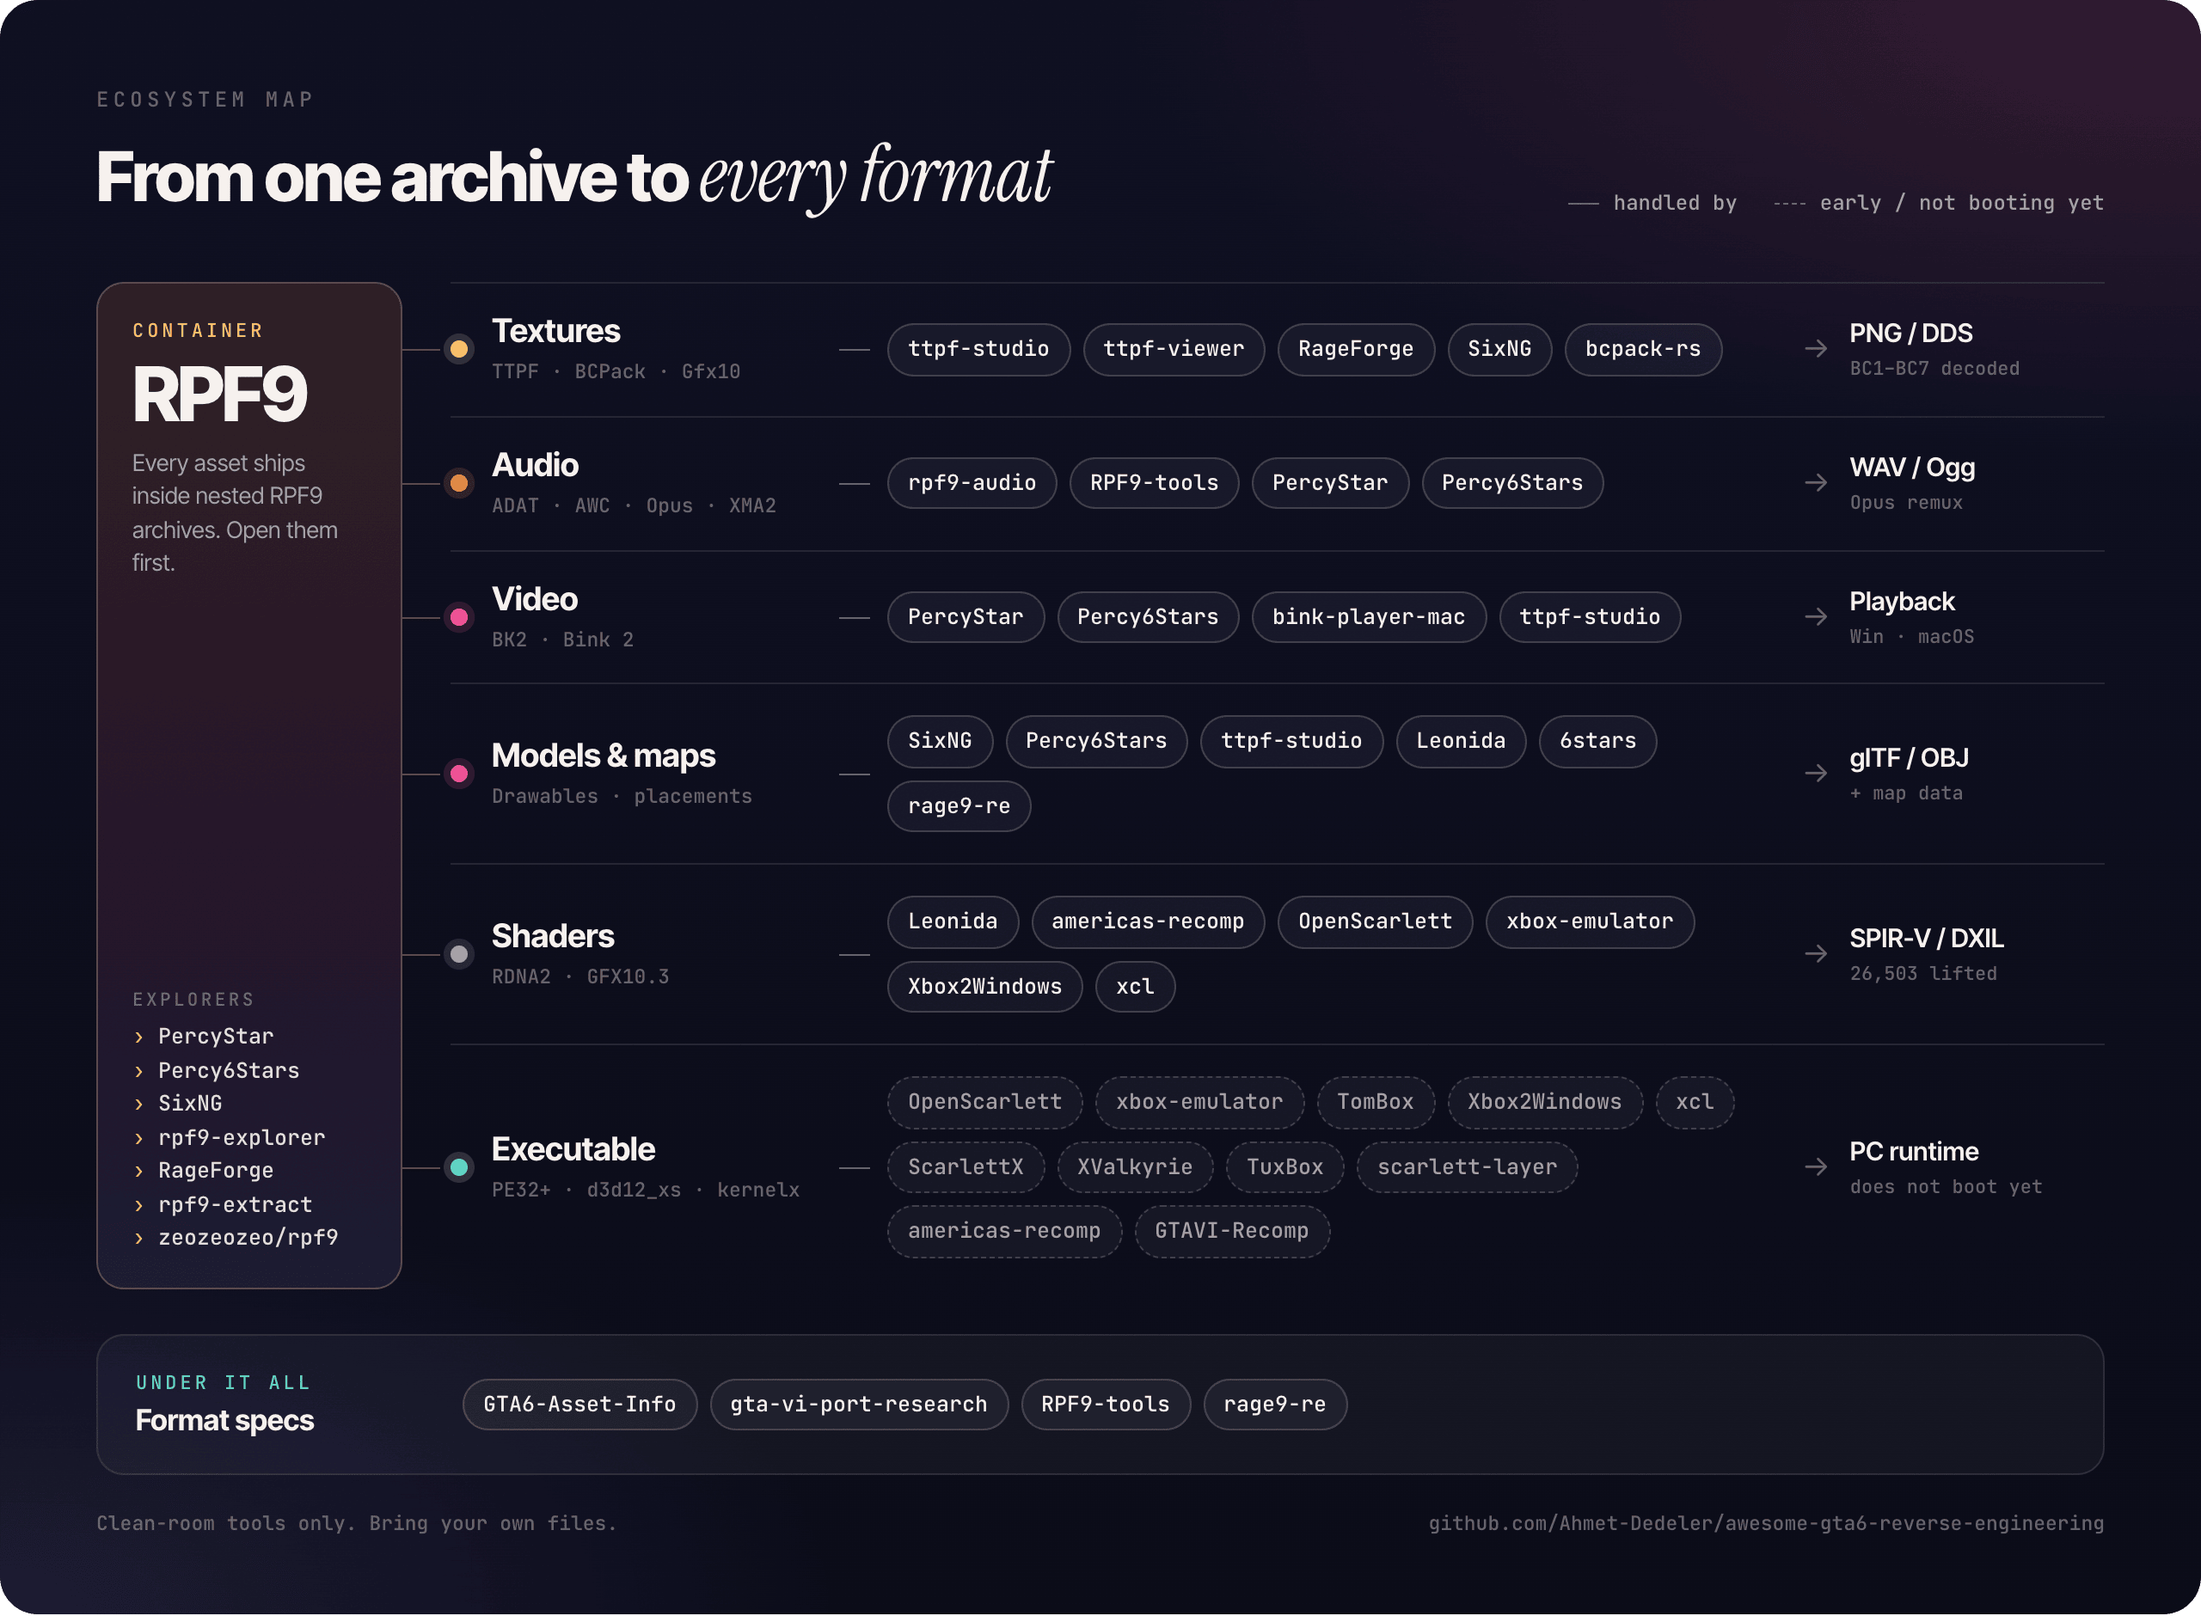
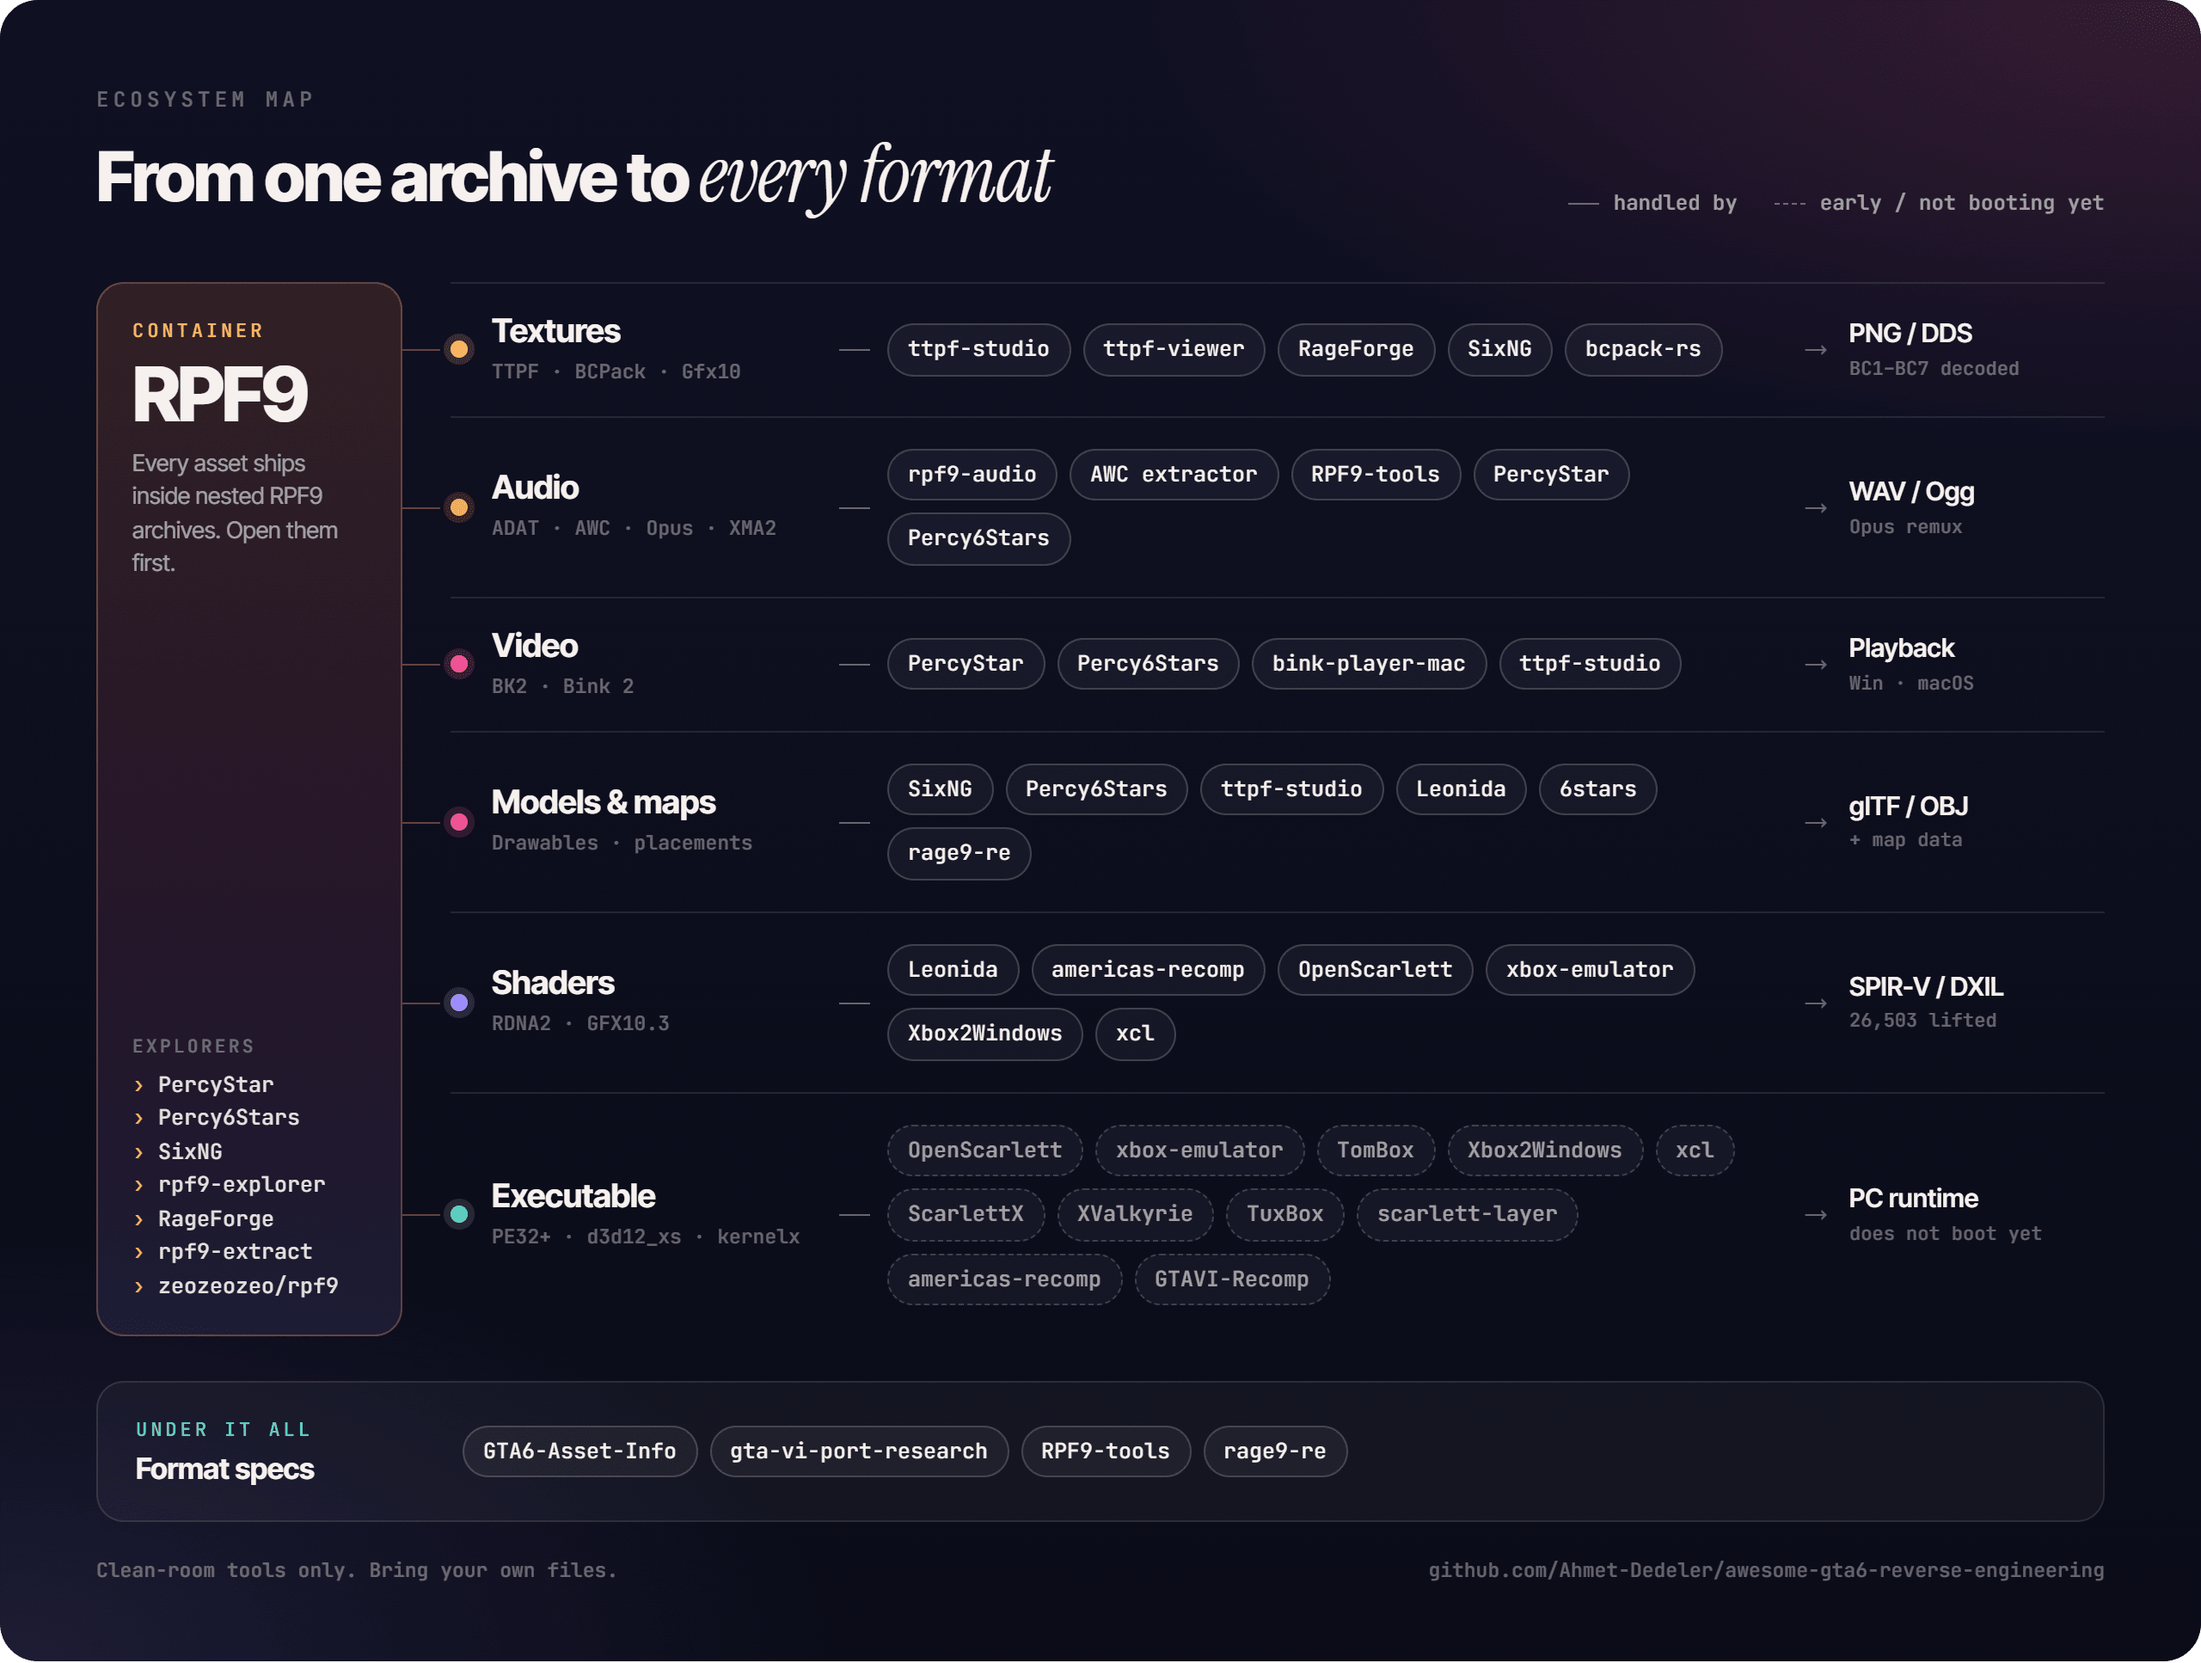
Add AWC from RPF9 Extractor to audio tools
Python/tkinter GUI + CLI that finds ADAT streams without the archive TOC,
parses the 0x48/0x55/0xA3/0xBD chunk tables and remuxes Opus bit-exactly to
Ogg Opus (optional FLAC/WAV/MP3 via ffmpeg), with a stream player and an
English/German UI; SFX, speech and Vorbis/XMA banks are skipped.

Audio lane updated and re-rendered.

diff --git a/assets/src/ecosystem-map.html b/assets/src/ecosystem-map.html
@@ -144,7 +144,7 @@
 
     <div class="lane">
       <div class="fmt"><span class="dot" style="color:var(--ember);background:var(--ember)"></span><div><div class="name">Audio</div><div class="spec">ADAT · AWC · Opus · XMA2</div></div></div>
-      <div class="tools"><span class="pill">rpf9-audio</span><span class="pill">RPF9-tools</span><span class="pill">PercyStar</span><span class="pill">Percy6Stars</span></div>
+      <div class="tools"><span class="pill">rpf9-audio</span><span class="pill">AWC extractor</span><span class="pill">RPF9-tools</span><span class="pill">PercyStar</span><span class="pill">Percy6Stars</span></div>
       <div class="out"><div class="o">WAV / Ogg<small>Opus remux</small></div></div>
     </div>
 

diff --git a/README.md b/README.md
@@ -93,6 +93,7 @@ Focused decoders for RAGE 9 GPU-tiled texture packs (`.ttpf`, `BCPack`, `Gfx10` 
 | [paryzius/ttpf-viewer](https://github.com/paryzius/ttpf-viewer) | Rust (`MIT`) | Windows (`.exe`), macOS / Linux from source | Fast `.ttpf` gallery and extractor. Decodes BC1-BC7, BC6H HDR, and uncompressed formats with exact Gfx10 tile/mip layouts, shows cube maps in 3D and texture arrays per slice, exports PNG, lossless DDS (mips kept), or 360° panoramas, and searches or batch-extracts whole folders. Includes a CLI and a documented `RDS5`/`ETPF` header spec. BCPack-only mips are not decodable yet. |
 | [Ahmet-Dedeler/bcpack-rs](https://github.com/Ahmet-Dedeler/bcpack-rs) | Rust, Python (`MIT OR Apache-2.0`) | Cross-platform (CLI) | Standalone clean-room decoder for `BCPack`, the Xbox Series texture compression (`Leonida` and `rpf9-explorer` now ship their own decoders too). **BC1 decodes** with a Rust CLI (`bcpack ttpf-export <store.ttpf> <texture> out.png\|dds`). It is checked on held-out data: tables fitted on half the texture pools decode the other half at 34.7 / 34.0 dB median vs a 37.9 dB plain-BC1 ceiling, and 600/600 random textures decode. The entropy layer also converges exactly for BC7, BC6H, BC5, BC4 and BC3. BC7's mode layer is solved too; its block decode and the other formats' block mappings are in progress. |
 | [jaylikesbunda/rpf9-audio](https://github.com/jaylikesbunda/rpf9-audio) | Python | Cross-platform (CLI) | Dependency-free, read-only RPF9 and `ADAT`/AWC audio research toolkit. Extracts Opus packets, decodes to WAV, and remuxes playable Ogg Opus. |
+| [Albotterin/AWC_from_RPF9_Extractor](https://github.com/Albotterin/AWC_from_RPF9_Extractor) | Python 3 (tkinter) | Windows (GUI + CLI) | Scans `.rpf`/`.awc` files for `ADAT` headers without needing the archive TOC, reads the `0x48/0x55/0xA3/0xBD` chunk tables, groups banks by archive position, and remuxes Opus packets bit-exactly into Ogg Opus, with optional FLAC/WAV/MP3 export through ffmpeg, a stream player, and an English/German UI. Skips SFX, speech and Vorbis/XMA banks. |
 
 ---
 
